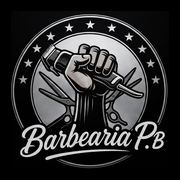
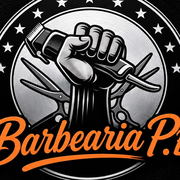
Add files via upload

diff --git a/index.html b/index.html
@@ -17,6 +17,21 @@ select:focus-visible{outline:2px solid #cfcfd4;outline-offset:2px}
 .modo-normal #secbuy,.modo-normal #seccod{display:none!important}
 .modo-plano #secsvc,.modo-plano #telbox{display:none!important}
 .modo-plano:not(.tem-saldo) #secprof,.modo-plano:not(.tem-saldo) #secdia,.modo-plano:not(.tem-saldo) #secdados{display:none!important}
+
+:root{--laranja:#f47b20;--laranja2:#ff8a2e}
+.logo{display:block;width:100%;max-width:420px;height:auto;margin:0 auto;border-radius:14px}
+.svc[aria-pressed="true"],.slot[aria-pressed="true"]{background:var(--laranja)!important;border-color:var(--laranja)!important;color:#111!important}
+.svc[aria-pressed="true"] *,.slot[aria-pressed="true"] *{color:#111!important}
+.svc:hover,.slot:hover{border-color:var(--laranja)}
+button.main{background:var(--laranja)!important;border-color:var(--laranja)!important;color:#111!important;font-weight:700}
+button.main:disabled{opacity:.45}
+button.main:not(:disabled):hover{background:var(--laranja2)!important}
+a.wa{background:var(--laranja)!important;color:#111!important}
+.msg.ok{color:var(--laranja)}
+footer a{color:var(--laranja)}
+input:focus-visible,select:focus-visible,button:focus-visible{outline:2px solid var(--laranja)!important;outline-offset:2px}
+select:focus{border-color:var(--laranja)}
+details summary{color:var(--laranja)}
 </style>
 </head><body class="modo-normal">
 <main>
@@ -44,7 +59,7 @@ select:focus-visible{outline:2px solid #cfcfd4;outline-offset:2px}
 <div id="resumo" class="resumo" hidden></div>
 <label for="nome">Nome</label><input id="nome" autocomplete="name">
 <div id="telbox"><label for="tel">WhatsApp</label><input id="tel" type="tel" autocomplete="tel" placeholder="(19) 90000-0000"></div>
-<div style="margin-top:1rem;padding:.8rem 1rem;border:1px dashed #cfcfd4;border-radius:10px;color:#cfcfd4;font-size:.92rem;line-height:1.4">⏱ <b>Atenção:</b> a tolerância de atraso é de <b>5 minutos</b>. Após esse tempo, o horário poderá ser cancelado.</div>
+<div style="margin-top:1rem;padding:.8rem 1rem;border:1px dashed #f47b20;border-radius:10px;color:#f2f2f2;font-size:.92rem;line-height:1.4">⏱ <b>Atenção:</b> a tolerância de atraso é de <b>5 minutos</b>. Após esse tempo, o horário poderá ser cancelado.</div>
 <button class="main" id="ok" disabled>Confirmar e enviar no WhatsApp</button><div id="msg" class="msg" role="status"></div></section>
 <footer>Qualidade e Tradição · <a href="admin.html">Área do profissional</a></footer>
 </main>
